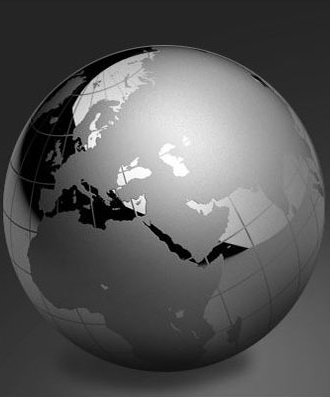
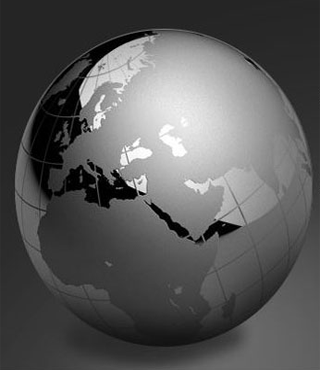
agrego mobile

diff --git a/css/mobile.css b/css/mobile.css
@@ -15,8 +15,8 @@ body{
 
 .cabecera{
 	background-color:white;
-	width:330px;
-	height:82px;
+	width:450px;
+	height:80px;
 	float:left;
 		/*Hack* retoma el alto al elemento padre, cuyos hijos flotan;
 	overflow:auto;*/
@@ -24,7 +24,7 @@ body{
 
 .cabecera h1{
 	color:#000000;
-	font-size: 24px;
+	font-size: 20px;
 	font-style:bold;
 	margin:35px;
 	margin-left:0;
@@ -33,15 +33,14 @@ body{
 }
 .cabecera img{
 	float:left;
-	margin-top:10px;
+	margin:10px;
 	margin-left:10;
 }
-
 /*CONTENEDOR*/
 .contenedor{
-	clear:both;
+	float:left;
 	max-width:320px;
-	height:1200px;
+	height:1000px;
 
 	
 }
@@ -50,17 +49,17 @@ body{
 
 .botonera{
 	background-color:black;
-	
+    padding:5px 5px;
+   
 		
 }
 
 .botonera ul{
-	background-color:black;
-	list-style-type:none;
+		list-style-type:none;
 }
 .botonera ul li a{
 	background-color:black;
-	padding:10px 10px;
+	padding:5px 5px;
 	color:white;
 	display:block;
 	float:right;
@@ -74,12 +73,13 @@ body{
 }
 
 
+
 /*SLIDER*/
 
 .slider{
 	background-color:black;
 	margin-top:0;
-	margin-left:0;
+	margin-left:10px;
 	float:left;
 }
 
@@ -87,10 +87,10 @@ body{
 
 .objetivos{
 	margin:auto;
-	padding-top:10px;
+	padding-top:5px;
 	text-align:center;
 	width:330px;
-	height:1250px;
+	height:1200px;
 	font-size:9;
     background-image: linear-gradient(#E9E3E3 10%, grey);
     float:left;
@@ -98,7 +98,7 @@ body{
 }
 .objetivo1, .objetivo2, .objetivo3{
 	padding:10px;
-    margin-left:150px;
+    margin-left:30px;
     margin-bottom:20px;
 	width:250px;
 	height:350px;
